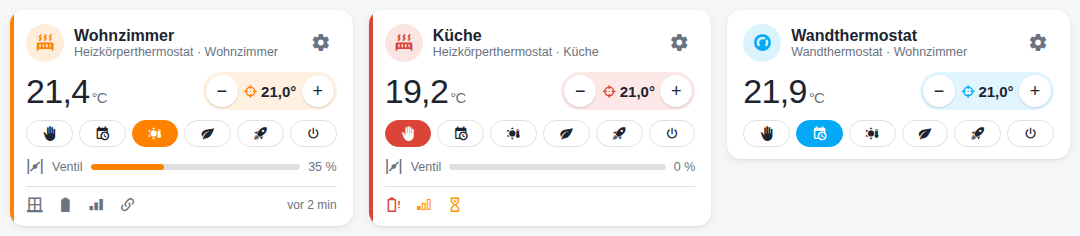
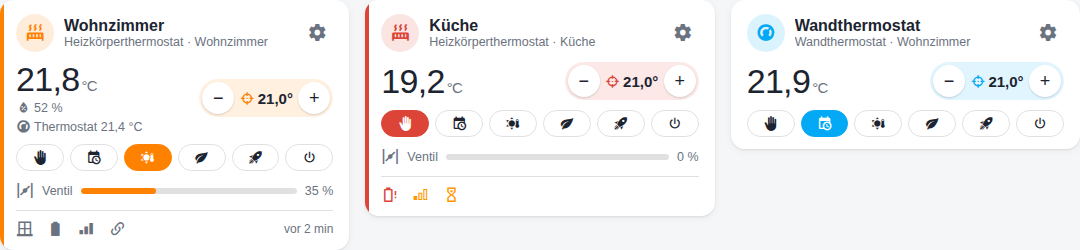
README-Bilder mit externem Raum- und Feuchtesensor, Skript tools/screenshots.py

diff --git a/test/harness.html b/test/harness.html
@@ -123,11 +123,25 @@
     grid.append(box);
     return card;
   };
+  // ?shot=1 (or ?sensors=1): the living room shows an external room sensor and humidity (0.1.2).
+  const wz = { entity: "climate.ht_wz" };
+  if (qs.get("shot") || qs.get("sensors")) {
+    hass.states["sensor.raum_temperatur"] = { state: "21.8", attributes: { device_class: "temperature" } };
+    hass.states["sensor.raum_feuchte"] = { state: "52", attributes: { device_class: "humidity" } };
+    Object.assign(wz, { temperature_sensor: "sensor.raum_temperatur", humidity_sensor: "sensor.raum_feuchte" });
+  }
   window.cards = [
-    add({ entity: "climate.ht_wz" }), add({ entity: "climate.ht_ez" }), add({ entity: "climate.wt" }),
-    add({ entity: "climate.ht_wz", layout: "ring" }), add({ entity: "climate.ht_ez", layout: "ring" }),
-    add({ entity: "climate.ht_wz", layout: "kachel" }, true), add({ entity: "climate.ht_ez", layout: "kachel" }, true),
+    add({ ...wz }), add({ entity: "climate.ht_ez" }), add({ entity: "climate.wt" }),
+    add({ ...wz, layout: "ring" }), add({ entity: "climate.ht_ez", layout: "ring" }),
+    add({ ...wz, layout: "kachel" }, true), add({ entity: "climate.ht_ez", layout: "kachel" }, true),
   ];
+  // ?rects=1: card positions for cutting screenshots (tools/screenshots.py).
+  if (qs.get("rects")) setTimeout(() => {
+    document.body.setAttribute("data-rects", JSON.stringify(window.cards.map((c) => {
+      const r = c.getBoundingClientRect();
+      return [Math.round(r.left), Math.round(r.top), Math.round(r.right), Math.round(r.bottom)];
+    })));
+  }, 500);
   const q = new URLSearchParams(location.search);
   if (q.get("selftest") === "minors") {
     setTimeout(async () => {

diff --git a/tools/screenshots.py b/tools/screenshots.py
@@ -1,0 +1,69 @@
+#!/usr/bin/env python3
+"""Make the README card images (docs/images/card-*.png) from test/harness.html.
+
+Serves the repository on 127.0.0.1, has headless Chromium render the harness with neutral
+names (?shot=1, which also gives the living room an external room and humidity sensor),
+reads the card positions (?rects=1) and cuts the three rows: compact (cards 0-2),
+ring (3-4), tile (5-6). DE/EN, light/dark. Needs chromium and Pillow.
+
+    python3 tools/screenshots.py
+"""
+
+from __future__ import annotations
+
+import functools
+import http.server
+import json
+import re
+import subprocess
+import tempfile
+import threading
+from pathlib import Path
+
+from PIL import Image
+
+ROOT = Path(__file__).resolve().parent.parent
+OUT = ROOT / "docs" / "images"
+WIDTH, HEIGHT = 1120, 1500
+CUTS = {"kompakt": (0, 3), "ring": (3, 5), "kachel": (5, 7)}
+
+
+def chromium(*args: str) -> str:
+    return subprocess.run(
+        ["chromium", "--headless", "--disable-gpu", "--hide-scrollbars", "--virtual-time-budget=4000",
+         f"--window-size={WIDTH},{HEIGHT}", *args],
+        capture_output=True, text=True, timeout=120, check=True,
+    ).stdout
+
+
+def main() -> None:
+    handler = functools.partial(http.server.SimpleHTTPRequestHandler, directory=str(ROOT))
+    server = http.server.ThreadingHTTPServer(("127.0.0.1", 0), handler)
+    threading.Thread(target=server.serve_forever, daemon=True).start()
+    base = f"http://127.0.0.1:{server.server_address[1]}/test/harness.html?shot=1"
+    try:
+        for lang in ("de", "en"):
+            for theme in ("light", "dark"):
+                url = f"{base}&lang={lang}&theme={theme}"
+                dom = chromium("--dump-dom", url + "&rects=1")
+                found = re.search(r'data-rects="([^"]+)"', dom)
+                if not found:
+                    raise SystemExit(f"no card positions for {lang}/{theme}")
+                rects = json.loads(found.group(1).replace("&quot;", '"'))
+                with tempfile.TemporaryDirectory() as tmp:
+                    shot = Path(tmp) / "page.png"
+                    chromium(f"--screenshot={shot}", url)
+                    page = Image.open(shot)
+                    for name, (first, last) in CUTS.items():
+                        boxes = rects[first:last]
+                        box = (min(b[0] for b in boxes), min(b[1] for b in boxes),
+                               max(b[2] for b in boxes), max(b[3] for b in boxes))
+                        target = OUT / f"card-{name}-{lang}-{theme}.png"
+                        page.crop(box).save(target)
+                        print(target.relative_to(ROOT), box[2] - box[0], "x", box[3] - box[1])
+    finally:
+        server.shutdown()
+
+
+if __name__ == "__main__":
+    main()
